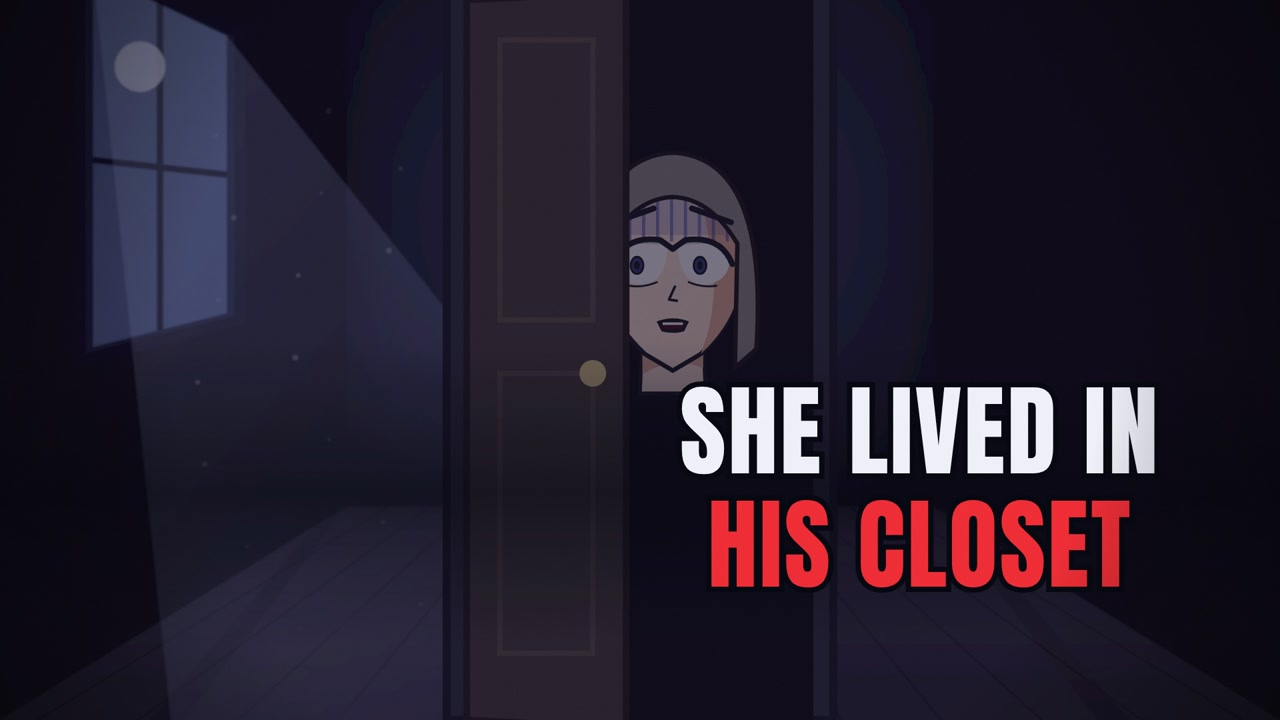
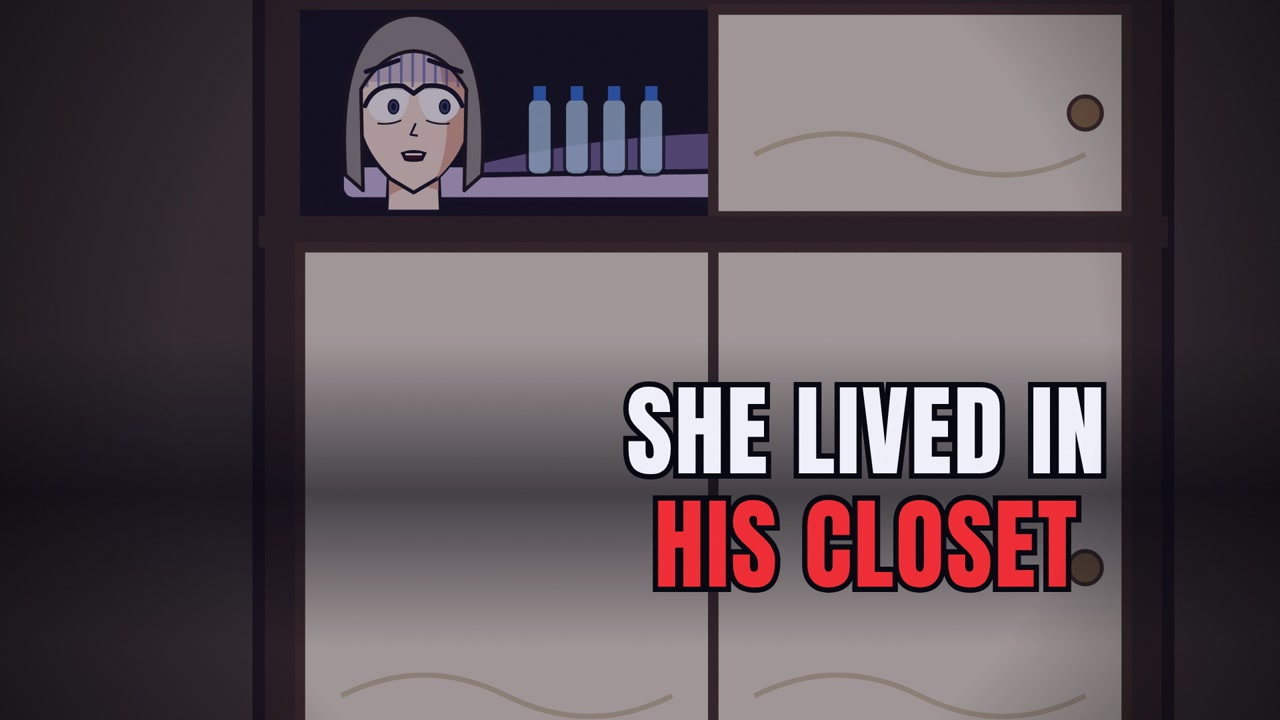
Engine: draw every named place/thing (fridge close-up with yogurt and rice, Fukuoka street, office, police with flashlights, Japanese oshiire closet, kitchen security camera). 022 rebuilt on them
Claude-Session: https://claude.ai/code/session_019ai2m2MxcJnxMHWqzPuaSF

diff --git a/channels/3am-stories/engine/scenes.js b/channels/3am-stories/engine/scenes.js
@@ -467,7 +467,7 @@ S.kitchenDoor = (t, d, p) => `${room('#040405')}
     ${[0, 1, 2, 3].map((i) => `<rect x="${420 + i * 40}" y="${1500 + i * 110}" width="${1080 - i * 80}" height="22" fill="#0d0d0d"/>`).join('')}`;
 // a real kitchen at night: upper and lower cabinets, counter with sink and faucet under a moonlit window, a stove,
 // a wall clock and a tall fridge. p: fridge (door swings open, lit shelves, light spills on the floor), food (0..1 how
-// full the shelves are), time (clock text), watcher (0..1 a figure by the fridge), kid, lights (warm ceiling light on)
+// full the shelves are), time (clock text), cam (a security camera on the wall, red light blinking), watcher (0..1 a figure by the fridge), kid, lights (warm ceiling light on)
 S.kitchen = (t, d, p) => {
   const fl = flick(t, 0.25), open = p.fridge ? ease(Math.min(1, t / 0.8 + 0.6)) : 0, food = p.food ?? 1, warm = p.lights;
   const ink = '#0a0a0e', cab = warm ? '#5a4632' : '#2a2f3e', cabD = warm ? '#3e3020' : '#1c202c', top = warm ? '#c9c2b4' : '#5d6478';
@@ -512,6 +512,7 @@ S.kitchen = (t, d, p) => {
       <path d="M${FX} ${FY} L${FX - 150 * open} ${FY + 40 * open} L${FX - 150 * open} ${FY + FH - 40 * open} L${FX} ${FY + FH}Z" fill="#c9d2de" stroke="${ink}" stroke-width="8"/>
       <path d="M${FX - 40 * open} ${FY + 140} v60" stroke="${ink}" stroke-width="8" stroke-linecap="round"/>`
     : `<rect x="${FX + FW - 30}" y="${FY + 80}" width="12" height="110" rx="5" fill="#d8dce4" stroke="${ink}" stroke-width="3"/><rect x="${FX + FW - 30}" y="${FY + 270}" width="12" height="160" rx="5" fill="#d8dce4" stroke="${ink}" stroke-width="3"/>`}
+    ${p.cam ? `<g transform="translate(1110,600)"><rect x="-10" y="-60" width="20" height="40" fill="#cfd3dc" stroke="${ink}" stroke-width="4"/><path d="M-50 -24 h100 l-20 60 h-60z" fill="#e8ebf2" stroke="${ink}" stroke-width="6"/><circle cx="0" cy="22" r="20" fill="#14161c" stroke="${ink}" stroke-width="5"/><circle cx="34" cy="-8" r="7" fill="#ff2a2a" opacity="${Math.sin(t * 6) > 0 ? 1 : 0.2}"/></g>` : ''}
     ${p.watcher ? watcher(FX - 230, 880, .85, p.watcher, { tall: 1.0, fingers: true, blink: (t % 2.7) > 2.6 }) : ''}
     ${p.kid ? kid(960, 1420 - ease(t / d) * 260, 0.7 - ease(t / d) * 0.15, { eyes: 'closed', walk: t * 3 }) : ''}
     <rect width="1920" height="1920" fill="#203060" opacity="${warm ? 0 : 0.14}"/>`;
@@ -1140,3 +1141,141 @@ S.house = (t, d, p) => {
     <rect width="1920" height="1920" fill="#203060" opacity=".12"/>`;
 };
 FOCUS.letter = 960; FOCUS.house = 1000;
+
+// ---------- places and things for true stories: everything the narrator names gets drawn ----------
+const K = { ink: '#0a0a12' };
+// police officer (navy uniform, peaked cap, badge), optional flashlight beam. o.beam: angle in degrees (0 = right)
+function officer(x, y, s, o = {}) {
+  const ink = K.ink, nv = '#1c2a4a', nvS = '#111b33';
+  const beam = o.beam != null ? `<g transform="translate(150,330) rotate(${o.beam})"><path d="M0 -14 L1100 -260 L1100 260 L0 14Z" fill="#fff6d0" opacity=".16"/><path d="M0 -6 L900 -90 L900 90 L0 6Z" fill="#fff6d0" opacity=".18"/></g>` : '';
+  return `<g transform="translate(${x},${y}) scale(${s})">${beam}
+    <path d="M-132 150 Q-138 46 -44 36 L44 36 Q138 46 132 150 L148 520 L-148 520Z" fill="${nv}" stroke="${ink}" stroke-width="8" stroke-linejoin="round"/>
+    <path d="M40 40 Q138 46 132 150 L148 520 L50 520 Q90 300 40 40Z" fill="${nvS}"/>
+    <path d="M-44 36 L0 110 L44 36" fill="#cfd8ea" stroke="${ink}" stroke-width="6"/><path d="M-8 60 L0 110 L8 60Z" fill="${nvS}"/>
+    <path d="M-150 360 H150" stroke="#0b0b10" stroke-width="30"/><rect x="-24" y="345" width="48" height="30" rx="4" fill="#c9a24a"/>
+    <path d="M60 120 l26 0 l6 30 l-19 18 l-19 -18z" fill="#e6c25a" stroke="${ink}" stroke-width="4"/>
+    <path d="M-124 160 Q-176 300 -150 430" stroke="${ink}" stroke-width="72" stroke-linecap="round" fill="none"/><path d="M-124 160 Q-176 300 -150 430" stroke="${nv}" stroke-width="58" stroke-linecap="round" fill="none"/>
+    <path d="M124 160 Q170 260 150 330" stroke="${ink}" stroke-width="72" stroke-linecap="round" fill="none"/><path d="M124 160 Q170 260 150 330" stroke="${nvS}" stroke-width="58" stroke-linecap="round" fill="none"/>
+    ${o.beam != null ? `<rect x="130" y="310" width="90" height="34" rx="8" fill="#2a2a2a" stroke="${ink}" stroke-width="5" transform="rotate(${o.beam} 150 330)"/>` : ''}
+    ${head(0, -110, 1, { eyes: o.eyes || 'normal', look: o.look ?? 0.5 })}
+    <path d="M-120 -210 Q0 -268 120 -210 L112 -170 L-112 -170Z" fill="${nv}" stroke="${ink}" stroke-width="7"/>
+    <path d="M-118 -172 H118 L140 -150 H-140Z" fill="#0b0f1c" stroke="${ink}" stroke-width="6"/>
+    <circle cx="0" cy="-208" r="16" fill="#e6c25a" stroke="${ink}" stroke-width="4"/>
+  </g>`;
+}
+
+// close-up of the open fridge: yogurt cups and a bowl of rice under cling film, milk, eggs. p.yogurt (number of cups 0-6),
+// p.rice (0..1 how full the rice bowl is), p.labels (true: small hand-written labels). Light flickers a little.
+S.fridgeClose = (t, d, p) => {
+  const ink = K.ink, fl = flick(t, 0.2), n = p.yogurt ?? 6, r = p.rice ?? 1;
+  const cup = (x, y) => `<g transform="translate(${x},${y})"><path d="M-46 -110 L46 -110 L38 0 L-38 0Z" fill="#f6f4ee" stroke="${ink}" stroke-width="6"/>
+    <rect x="-50" y="-124" width="100" height="18" rx="5" fill="#e04a6a" stroke="${ink}" stroke-width="5"/>
+    <rect x="-34" y="-80" width="68" height="34" rx="6" fill="#ffd2dc"/><text x="0" y="-56" text-anchor="middle" font-family="Anton" font-size="22" fill="#b0234a">YOGURT</text></g>`;
+  const cups = [...Array(6)].map((_, k) => k < n ? cup(640 + k * 115, 900) : `<ellipse cx="${640 + k * 115}" cy="900" rx="40" ry="8" fill="#b8c6d6" opacity=".7"/>`).join('');
+  const ry = 1180 - 120 * r;
+  return `<rect width="1920" height="1920" fill="#dfeaf2"/>
+    <rect x="380" y="300" width="1160" height="1300" rx="30" fill="#f4fbff" stroke="${ink}" stroke-width="14" opacity="${0.92 + 0.08 * fl}"/>
+    <circle cx="960" cy="400" r="70" fill="#fff" filter="url(#blur)"/>
+    ${[910, 1300].map((y) => `<rect x="400" y="${y}" width="1120" height="22" fill="#b9cad9" stroke="${ink}" stroke-width="5"/><rect x="400" y="${y + 22}" width="1120" height="14" fill="#000" opacity=".08"/>`).join('')}
+    ${cups}
+    <g transform="translate(760,1300)"><path d="M-170 -150 Q-170 0 0 0 Q170 0 170 -150Z" fill="#fdfdfb" stroke="${ink}" stroke-width="8"/>
+      <path d="M-170 -150 H170" stroke="${ink}" stroke-width="8"/>
+      ${r > 0 ? `<path d="M-160 ${-150 + (1 - r) * 120} Q0 ${-200 + (1 - r) * 150} 160 ${-150 + (1 - r) * 120} L150 -150 L-150 -150Z" fill="#fffef6" stroke="#d8d4c4" stroke-width="5"/>
+        ${[...Array(Math.round(26 * r))].map((_, k) => `<ellipse cx="${-130 + (k * 47) % 260}" cy="${-150 - (k % 3) * 10 + (1 - r) * 110}" rx="9" ry="5" fill="#ece8d8"/>`).join('')}` : ''}
+      <path d="M-178 -168 Q0 -230 178 -168" stroke="#bfe0ff" stroke-width="8" fill="none" opacity=".7"/>
+      <text x="0" y="-60" text-anchor="middle" font-family="Anton" font-size="44" fill="#6a6a6a">RICE</text></g>
+    <g transform="translate(1180,1300)"><path d="M-70 0 V-300 L0 -360 L70 -300 V0Z" fill="#fff" stroke="${ink}" stroke-width="7"/><rect x="-70" y="-220" width="140" height="90" fill="#3a8ae0"/><text x="0" y="-160" text-anchor="middle" font-family="Anton" font-size="40" fill="#fff">MILK</text></g>
+    <g transform="translate(1390,1300)">${[0, 1, 2].map((k) => `<ellipse cx="${-50 + k * 50}" cy="-40" rx="26" ry="34" fill="#f2dcc0" stroke="${ink}" stroke-width="5"/>`).join('')}</g>
+    <rect width="1920" height="1920" fill="#203060" opacity=".06"/>`;
+};
+FOCUS.fridgeClose = 960;
+
+// a quiet residential street in Fukuoka (Japan) at night: two-storey houses with dark tiled roofs, power lines on poles,
+// a glowing drinks vending machine, one lit window. p.lit (which house window glows: 0,1,2), p.zoom (slow move in)
+S.street = (t, d, p) => {
+  const ink = K.ink, z = 1 + (p.zoom || 0) * ease(t / d), lit = p.lit ?? 1, fl = flick(t, 0.5);
+  const house = (x, i) => `<g transform="translate(${x},0)">
+    <path d="M-40 700 L230 560 L500 700Z" fill="#1c2230" stroke="${ink}" stroke-width="8"/>${[0, 1, 2, 3, 4].map((k) => `<path d="M${-10 + k * 50} ${686 - k * 26} L${470 - k * 50} ${686 - k * 26}" stroke="#2a3244" stroke-width="5"/>`).join('')}
+    <rect x="0" y="700" width="460" height="230" fill="#3a3a40" stroke="${ink}" stroke-width="8"/>
+    <path d="M-30 930 L230 830 L490 930Z" fill="#1c2230" stroke="${ink}" stroke-width="8"/>
+    <rect x="0" y="930" width="460" height="300" fill="#4a4740" stroke="${ink}" stroke-width="8"/>
+    ${[[60, 760], [300, 760], [60, 1000]].map(([wx, wy], k) => `<rect x="${wx}" y="${wy}" width="110" height="90" fill="${i === lit && k === 0 ? '#ffd27a' : '#0c1018'}" opacity="${i === lit && k === 0 ? fl : 1}" stroke="${ink}" stroke-width="6"/><path d="M${wx + 55} ${wy} v90" stroke="${ink}" stroke-width="5"/>`).join('')}
+    <rect x="280" y="1040" width="120" height="190" fill="#2a2016" stroke="${ink}" stroke-width="6"/>
+    <rect x="-20" y="1180" width="500" height="50" fill="#2a2a30" stroke="${ink}" stroke-width="6"/></g>`;
+  return `<rect width="1920" height="1920" fill="#060a18"/>
+    ${[...Array(40)].map((_, i) => `<circle cx="${(i * 733) % 1920}" cy="${430 + (i * 197) % 260}" r="${1 + i % 2}" fill="#fff" opacity=".5"/>`).join('')}
+    <circle cx="1600" cy="500" r="50" fill="#eef3ff" opacity=".8"/>
+    <g transform="translate(960,1000) scale(${z}) translate(-960,-1000)">
+      ${house(-180, 0)}${house(380, 1)}${house(940, 2)}
+      <rect x="1460" y="1020" width="150" height="210" rx="10" fill="#e9f2ff" opacity="${0.9 * fl}" stroke="${ink}" stroke-width="7"/>
+      ${[0, 1, 2].map((r) => [0, 1, 2].map((c) => `<rect x="${1475 + c * 44}" y="${1040 + r * 50}" width="32" height="38" rx="5" fill="${['#e04a4a', '#3a8ae0', '#f0c040'][(r + c) % 3]}"/>`).join('')).join('')}
+      <circle cx="1535" cy="1125" r="230" fill="#cfe4ff" opacity=".12" filter="url(#blur)"/>
+      ${[350, 1350].map((x) => `<rect x="${x}" y="520" width="22" height="720" fill="#151515"/><path d="M${x - 50} 560 h122" stroke="#151515" stroke-width="12"/>`).join('')}
+      <path d="M-100 600 Q350 650 361 562 Q860 640 1361 562 Q1700 620 2100 590 M-100 640 Q350 690 361 600 Q860 690 1361 600 Q1700 660 2100 630" stroke="#0e0e0e" stroke-width="5" fill="none"/>
+      <rect x="0" y="1230" width="1920" height="700" fill="#141820"/><path d="M0 1400 H1920" stroke="#e8e0a0" stroke-width="10" stroke-dasharray="80 60" opacity=".5"/>
+    </g>
+    <rect width="1920" height="1920" fill="#203060" opacity=".12"/>`;
+};
+FOCUS.street = 960;
+
+// an office in the daytime: big windows over the city, rows of desks and monitors, co-workers, and HIM at the front desk
+// holding his phone. p.alert (phone lights up red with a notification), p.shock (his eyes go wide)
+S.office = (t, d, p) => {
+  const ink = K.ink, al = p.alert ? (Math.sin(t * 10) > 0 ? 1 : 0.6) : 0;
+  const desk = (x, y, s, who) => `<g transform="translate(${x},${y}) scale(${s})">
+    ${who ? `<g transform="translate(0,-40)">${person(0, 0, 0.55, { eyes: 'normal', look: 0.3, body: '#3a4a6a' })}</g>` : ''}
+    <rect x="-60" y="-190" width="160" height="110" rx="8" fill="#20283a" stroke="${ink}" stroke-width="6"/><rect x="-50" y="-180" width="140" height="90" fill="#7fa6e0" opacity=".8"/>
+    <rect x="-220" y="-70" width="440" height="40" fill="#c9b89a" stroke="${ink}" stroke-width="6"/><rect x="-200" y="-30" width="20" height="160" fill="#8a7a60"/><rect x="180" y="-30" width="20" height="160" fill="#8a7a60"/></g>`;
+  return `<rect width="1920" height="1920" fill="#d8dee6"/>
+    <rect x="0" y="420" width="1920" height="520" fill="#9fc2e6"/>
+    ${[...Array(12)].map((_, i) => `<rect x="${i * 170 - 20}" y="${600 - (i * 53 % 160)}" width="${120 + i * 17 % 50}" height="${400 + (i * 53 % 160)}" fill="#6c86a6" opacity=".7"/>`).join('')}
+    ${[...Array(7)].map((_, i) => `<rect x="${i * 300}" y="420" width="24" height="520" fill="#5a606a"/>`).join('')}
+    <rect x="0" y="940" width="1920" height="980" fill="#b9b2a4"/><rect x="0" y="930" width="1920" height="20" fill="#7a7468"/>
+    ${desk(420, 1060, 0.7, true)}${desk(960, 1040, 0.65, true)}${desk(1500, 1060, 0.7, true)}
+    <g transform="translate(960,1060)">${person(0, 120, 1.05, { eyes: p.shock ? 'wide' : 'normal', look: 0, sweat: p.shock, body: '#2a3550' })}
+      <rect x="-300" y="430" width="600" height="60" fill="#c9b89a" stroke="${ink}" stroke-width="8"/>
+      <g transform="translate(150,480)"><rect x="-55" y="-120" width="110" height="200" rx="16" fill="#111" stroke="${ink}" stroke-width="6"/>
+        <rect x="-45" y="-108" width="90" height="176" rx="8" fill="${p.alert ? '#ff3a3a' : '#9fd2ff'}" opacity="${p.alert ? al : 0.8}"/>
+        ${p.alert ? '<text x="0" y="-20" text-anchor="middle" font-family="Anton" font-size="44" fill="#fff">⚠</text>' : ''}</g></g>
+    ${p.alert ? `<circle cx="1110" cy="1500" r="300" fill="#ff3a3a" opacity="${0.12 * al}" filter="url(#blur)"/>` : ''}`;
+};
+FOCUS.office = 1000;
+
+// police searching the house with flashlights: a dark hallway, two officers, beams sweeping. p.n (1 or 2 officers)
+S.police = (t, d, p) => {
+  const sw = Math.sin(t * 1.3) * 18;
+  return `${room('#05060a')}
+    <rect x="740" y="470" width="440" height="700" fill="#0a0b10" stroke="#1a1c24" stroke-width="12"/>
+    ${(p.n ?? 2) > 1 ? officer(1250, 880, 0.8, { beam: 200 + sw, look: -0.6 }) : ''}
+    ${officer(720, 960, 0.95, { beam: -20 - sw, look: 0.6, eyes: p.eyes })}
+    <rect width="1920" height="1920" fill="#203060" opacity=".14"/>`;
+};
+FOCUS.police = 960;
+
+// a Japanese oshiire closet in a tatami room: wide sliding paper doors below and a small upper compartment (tenbukuro)
+// up near the ceiling. p.open (0..1 the upper door slides open), p.person (0..1 the woman lying on a thin mattress inside),
+// p.bottles (water bottles beside her), p.officer (an officer's flashlight beam from the bottom right)
+S.oshiire = (t, d, p) => {
+  const ink = K.ink, o = (p.open ?? 0) + ((p.openTo ?? p.open ?? 0) - (p.open ?? 0)) * ease(t / d);
+  const X0 = 560, X1 = 1360, TY0 = 440, TY1 = 640;
+  const fusuma = (x, w, y, h) => `<rect x="${x}" y="${y}" width="${w}" height="${h}" fill="#e9e0c8" stroke="#3a2a1a" stroke-width="10"/>
+    <path d="M${x + 40} ${y + h * 0.7} q${w * 0.2} -40 ${w * 0.4} 0 t${w * 0.4} 0" stroke="#b9a87a" stroke-width="5" fill="none" opacity=".7"/>
+    <circle cx="${x + w - 40}" cy="${y + h / 2}" r="16" fill="#8a6a3a" stroke="#3a2a1a" stroke-width="4"/>`;
+  const inside = `<rect x="${X0}" y="${TY0}" width="${X1 - X0}" height="${TY1 - TY0}" fill="#07080c"/>
+    ${p.person ? `<g opacity="${p.person}"><rect x="${X0 + 40}" y="${TY1 - 50}" width="${X1 - X0 - 80}" height="34" rx="12" fill="#c9b8d8" stroke="${ink}" stroke-width="5"/>
+      <path d="M${X0 + 170} ${TY1 - 52} Q${X0 + 400} ${TY1 - 110} ${X1 - 120} ${TY1 - 60} L${X1 - 120} ${TY1 - 48} L${X0 + 170} ${TY1 - 40}Z" fill="#6a5a8a" stroke="${ink}" stroke-width="5"/>
+      ${head(X0 + 110, TY1 - 105, 0.5, { eyes: 'wide', look: 0.8, hair: '<path d="M-132 130 Q-152 -172 0 -180 Q152 -172 132 130 L98 160 L102 -36 Q60 -108 0 -110 Q-60 -108 -102 -36 L-98 160Z" fill="#8d8780" stroke="#120d0a" stroke-width="7" stroke-linejoin="round"/>' })}</g>` : ''}
+    ${p.bottles ? [0, 1, 2, 3].map((k) => `<g transform="translate(${X0 + 340 - k * 36},${TY1 - 40})"><rect x="-12" y="-74" width="24" height="74" rx="8" fill="#bfe6ff" opacity=".8" stroke="${ink}" stroke-width="3"/><rect x="-6" y="-86" width="12" height="14" fill="#2a6ad0"/></g>`).join('') : ''}`;
+  return `<rect width="1920" height="1920" fill="#14110c"/>
+    <rect x="0" y="420" width="1920" height="900" fill="#3a3326"/>
+    <rect x="0" y="1300" width="1920" height="620" fill="#7a7448"/>${[0, 1, 2, 3, 4].map((k) => `<path d="M${-200 + k * 520} 1300 L${-600 + k * 700} 1920" stroke="#4a4428" stroke-width="10"/>`).join('')}
+    <path d="M0 1300 H1920" stroke="#2a2416" stroke-width="16"/>
+    <rect x="${X0 - 40}" y="${TY0 - 30}" width="${X1 - X0 + 80}" height="900" fill="#2a1f14" stroke="#120c06" stroke-width="12"/>
+    ${inside}
+    ${fusuma(X0 + (X1 - X0) / 2 * o, (X1 - X0) / 2, TY0, TY1 - TY0)}${fusuma(X0 + (X1 - X0) / 2, (X1 - X0) / 2, TY0, TY1 - TY0)}
+    <rect x="${X0 - 40}" y="${TY1}" width="${X1 - X0 + 80}" height="30" fill="#2a1f14"/>
+    ${fusuma(X0, (X1 - X0) / 2, TY1 + 30, 620)}${fusuma(X0 + (X1 - X0) / 2, (X1 - X0) / 2, TY1 + 30, 620)}
+    ${p.officer ? `<path d="M1800 1700 L${X0 + 120} ${TY0 + 60} L${X1 - 200} ${TY1 - 10}Z" fill="#fff6d0" opacity=".2"/><circle cx="${X0 + 200}" cy="${TY1 - 80}" r="160" fill="#fff6d0" opacity=".14" filter="url(#blur)"/>` : ''}
+    <rect width="1920" height="1920" fill="#203060" opacity=".12"/>`;
+};
+FOCUS.oshiire = 960;
